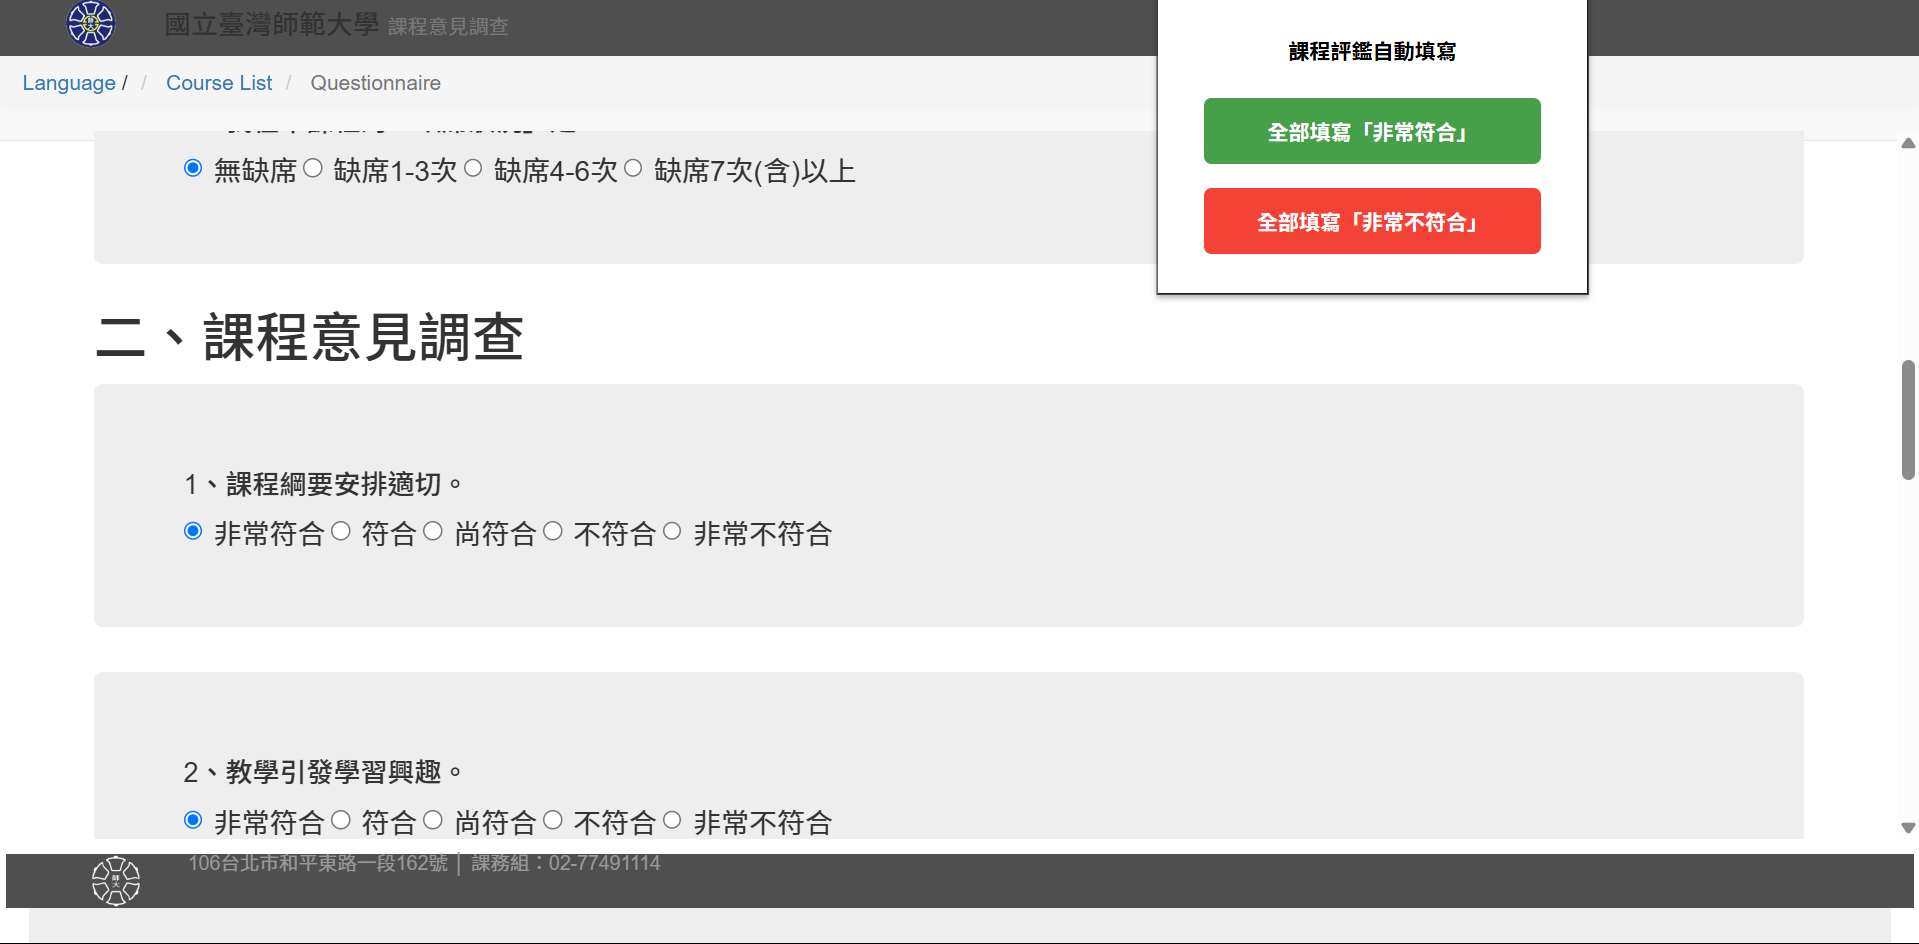
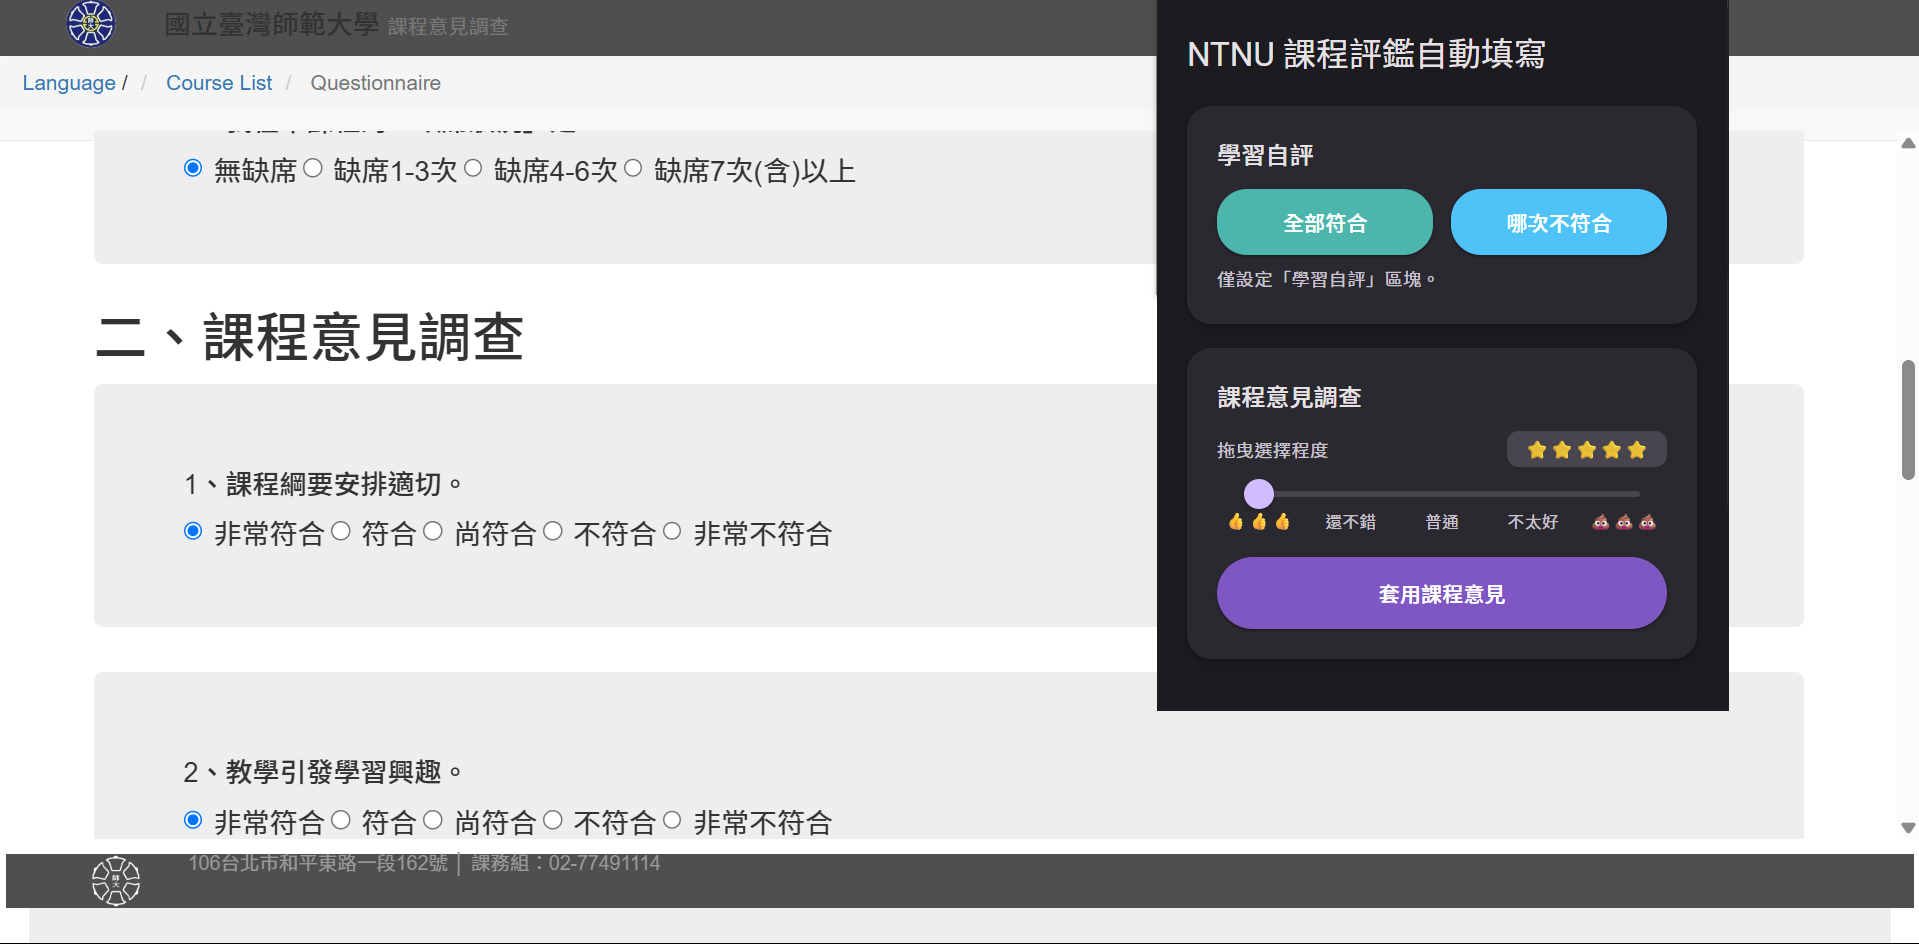
Update README.md for clarity and consistency; bump version in manifest.json to 1.2.0

Changed region(s): [[0.5842, 0.0, 0.9224, 0.768]]

diff --git a/README.md b/README.md
@@ -1,4 +1,4 @@
-# NTNU Student Courses Feedback Questionnaire Autofill
+# NTNU Student Courses Feedback Questionnaire Autofill Extension
 
 一個能幫你快速完成臺師大期末課程意見回饋的瀏覽器 Extension，讓你從重複的點擊中解放，省下寶貴的時間！
 
@@ -12,48 +12,46 @@
 
 ## Features
 
-* 🚀 **一鍵完成**: 提供「全部填寫非常符合」與「全部填寫非常不符合」兩個選項。
-* 🤖 **輕鬆填答**:
+* 🚀 **一鍵完成**：提供「全部填寫非常符合」與「全部填寫非常不符合」兩個選項。
+* 🤖 **輕鬆填答**：
     * 自動將「學習自評」設定為「非常符合」與「無缺席」。
     * 自動勾選所有對應的「詳細原因」複選框。
-    * 自動根據你的選擇，在建議欄填上可愛的表情文字（ヾ(•ω•`)o 或 இ௰இ）。
-* 🌐 兼容主流瀏覽器: 支援 Chrome、Edge 等所有基於 Chromium 的瀏覽器。
+    * 自動根據你的選擇，在建議欄填上有趣的回饋意見文字。
+* 🎚 **滑桿自訂**：根據滑桿選擇自動填寫課程意見調查，可以一次全選 1 到 5 分的評分。
+* 🌐 **兼容主流瀏覽器**: 支援 Chrome、Edge 等所有基於 Chromium 的瀏覽器。
 
 ## Getting Started
 
 1.  **下載專案**
     * 你可以 `git clone https://github.com/whyhugo/NTNU-Student-Feedback-Autofill.git`
-    * 或者直接點擊此 Repo 右上角的 `Code` -> `Download ZIP`，然後解壓縮。
+    * 或者直接點擊此 Repo 右下角的 `Releases`，選擇最新的版本 Download `Source code (.zip)`，然後解壓縮。
 
 2.  **開啟瀏覽器擴充功能頁面**
     * **Chrome**: 在網址列輸入 `chrome://extensions`
     * **Edge**: 在網址列輸入 `edge://extensions`
 
 3.  **啟用開發人員模式**
-    * 在頁面的**右上角**，找到並<b>開啟「開發人員模式」</b>的開關。
+    * 在頁面的**右上角**，找到並<b>開啟「開發人員模式 (Developer mode)」</b>的開關。
 
 4.  **載入擴充功能**
-    * 點擊頁面左上角出現的「**載入未封裝項目**」按鈕。
+    * 點擊頁面左上角出現的<b>「載入未封裝項目 (Load unpacked)」</b>按鈕。
     * 在跳出的視窗中，選擇你剛剛下載並解壓縮的**整個專案資料夾**。
 
 5.  **完成！**
     * 如果沒有錯誤，你應該能在瀏覽器的工具列上看到這個擴充功能的圖示。
+    * 也可以在你的瀏覽器工具列 icon 當中，開啟擴充功能列表來將此工具釘選，方便下一次使用。 
 
 ## Usage
+
 1. 進入師大學生教務系統 → 點選「期末課程意見調查登錄」
-2. 語言選單點擊右鍵 →「在新分頁開啟」
+2. 語言選單點擊右鍵 →<b>「在新分頁開啟」</b> 
+   <b style="color: red">很重要！！一定要在新分頁開啟！！</b>
 3. 點入任一科目問卷
 4. 點擊瀏覽器工具列上的擴充功能圖示
-5. 選擇「全部非常符合」或「全部非常不符合」
+5. 根據需求進行選擇
 6. 自動填寫完成！
 7. 按下頁面上的「提交表單」按鈕。
 
 ## Contributing
 
-歡迎任何形式的貢獻！
-
-1.  Fork the Project
-2.  Create your Feature Branch
-3.  Commit your Changes
-4.  Push to the Branch
-5.  Open a Pull Request
+Contributions are always welcome! Feel free to open an issue or submit a pull request.
